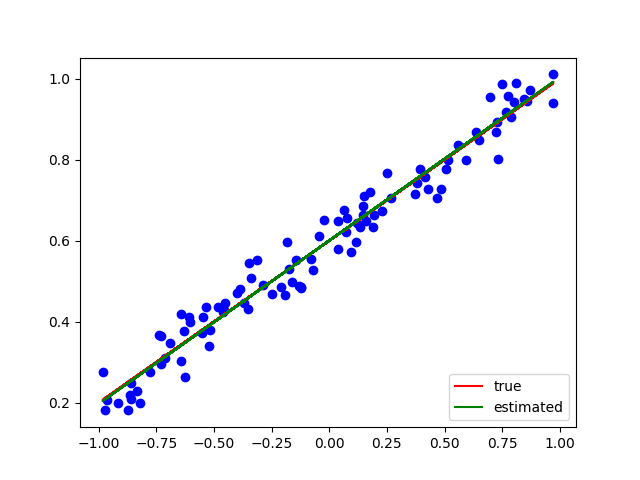
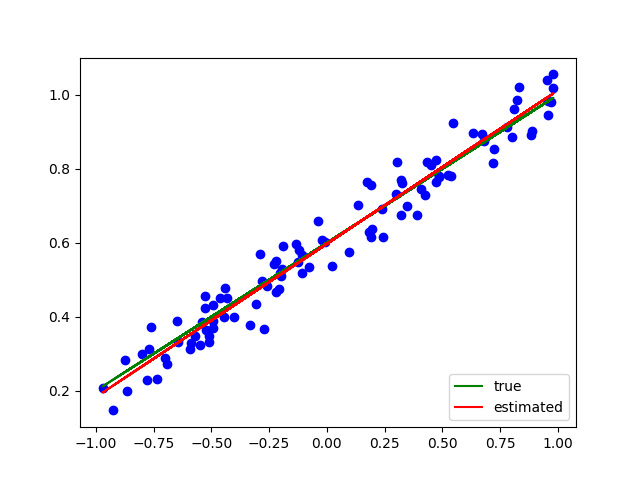
Change line colors

diff --git a/main.py b/main.py
@@ -53,8 +53,8 @@ points_y_model_true = [predict_y_true(px) for px in points_x]
 points_y_model_estimated = [predict_y_esitimated(px) for px in points_x]
 
 plt.scatter(points_x, points_y, color="blue")
-plt.plot(points_x, points_y_model_true, color="red", label="true")
-plt.plot(points_x, points_y_model_estimated, color="green", label="estimated")
+plt.plot(points_x, points_y_model_true, color="green", label="true")
+plt.plot(points_x, points_y_model_estimated, color="red", label="estimated")
 plt.legend(bbox_to_anchor=(1, 0), loc="lower right")
 
 # plt.show()
